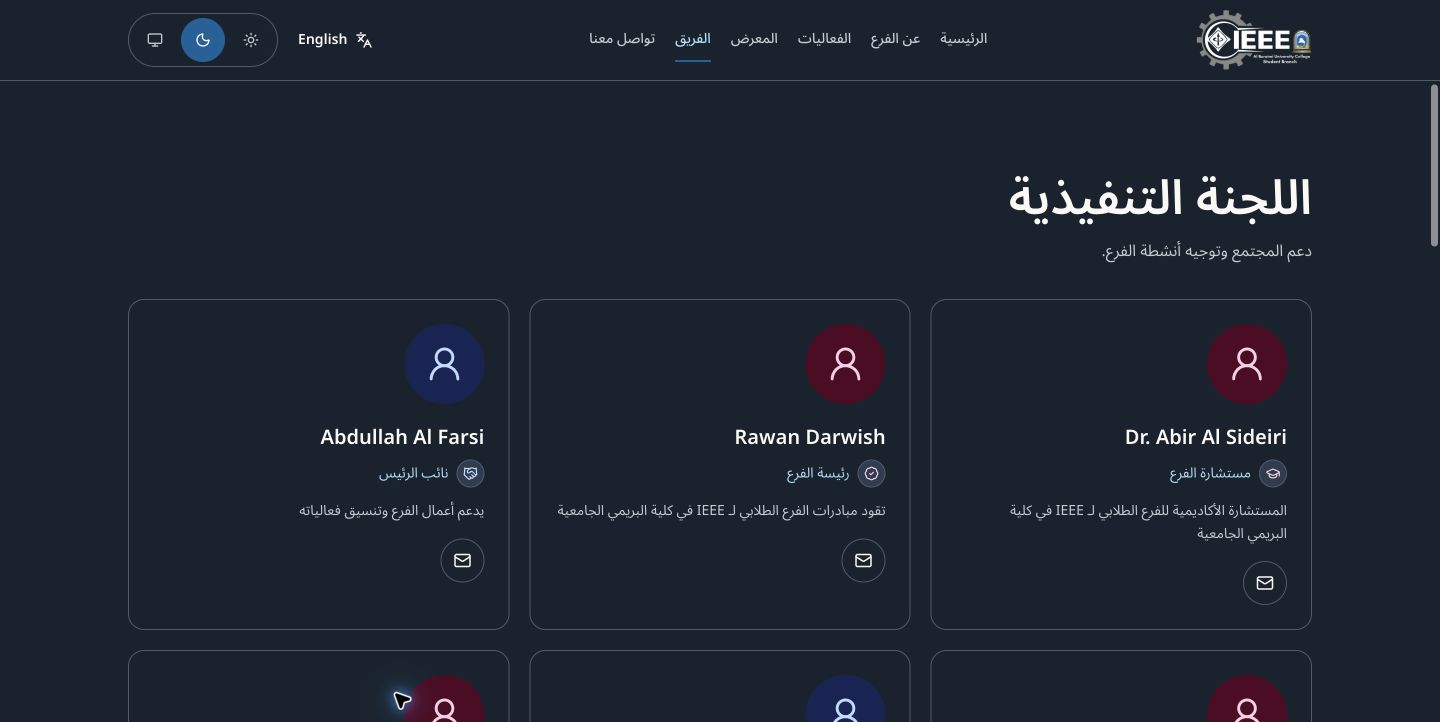
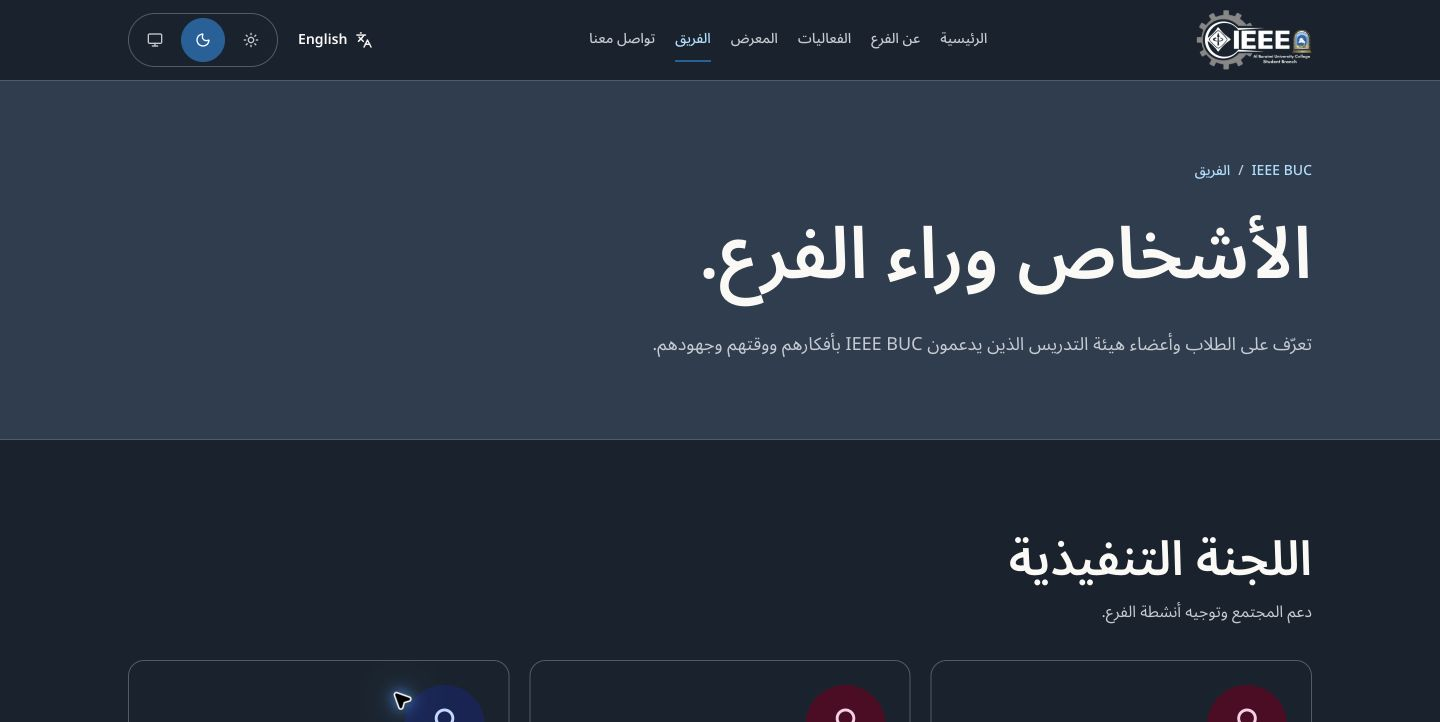
style: refine team card hierarchy

diff --git a/src/components/cards/MemberCard.tsx b/src/components/cards/MemberCard.tsx
@@ -40,12 +40,6 @@ export default function MemberCard({
       : member.gender === "male"
         ? "bg-blue-50 text-blue-700 dark:bg-blue-950 dark:text-blue-200"
         : "bg-surface-soft text-link";
-  const badgeColor =
-    member.gender === "female"
-      ? "text-pink-700 dark:text-pink-200"
-      : member.gender === "male"
-        ? "text-blue-700 dark:text-blue-200"
-        : "text-link";
   return (
     <article
       className={`flex min-w-0 gap-5 rounded-2xl border border-line bg-surface ${isExecutive ? "flex-col p-6" : "items-center p-4"}`}
@@ -69,14 +63,14 @@ export default function MemberCard({
           />
         )}
       </div>
-      <div className="min-w-0 flex-1">
+      <div className="flex min-w-0 flex-1 flex-col">
         <h3
           className={`${isExecutive ? "text-xl" : "text-base"} font-semibold leading-snug`}
         >
           <bdi>{member.name}</bdi>
         </h3>
         <div className="mt-2 flex min-w-0 items-center gap-2 text-sm text-link">
-          {isExecutive && <RoleBadge role={role} className={badgeColor} />}
+          {isExecutive && <RoleBadge role={role} />}
           <p>{locale === "ar" ? roles[role] || role : role}</p>
         </div>
         {isExecutive && "bio" in member && member.bio && (
@@ -84,7 +78,7 @@ export default function MemberCard({
             {locale === "ar" ? arabicBios[role] || member.bio : member.bio}
           </p>
         )}
-        <div className="mt-4 flex gap-2">
+        <div className="mt-auto flex gap-2 pt-4">
           {member.email && (
             <a
               href={`mailto:${member.email}`}

diff --git a/src/components/team/RoleBadge.tsx b/src/components/team/RoleBadge.tsx
@@ -18,18 +18,12 @@ const roleIcons: Record<string, LucideIcon> = {
 };
 
 /** A decorative circular cue paired with the visible role label. */
-export default function RoleBadge({
-  role,
-  className = "text-link",
-}: {
-  role: string;
-  className?: string;
-}) {
+export default function RoleBadge({ role }: { role: string }) {
   const Icon = roleIcons[role] ?? BadgeCheck;
 
   return (
     <span
-      className={`flex size-7 shrink-0 items-center justify-center rounded-full border border-line bg-surface-soft ${className}`}
+      className="flex size-7 shrink-0 items-center justify-center rounded-full border border-blue-200 bg-blue-50 text-blue-700 dark:border-blue-800 dark:bg-blue-950 dark:text-blue-200"
       aria-hidden="true"
     >
       <Icon size={15} strokeWidth={1.9} />

diff --git a/WEBSITE-REVIEW.md b/WEBSITE-REVIEW.md
@@ -4,9 +4,9 @@ The redesigned website is complete as a local, reviewable implementation. Previe
 
 ## Final icon decision
 
-Executive avatars use the same clean Lucide UserRound silhouette as regular members. Beside each role name is a small circular badge using the supplied reference icon set: Counselor graduation cap, Chair verified-leadership mark, Vice Chair handshake, Secretary writing clipboard, Webmaster code, and Treasurer wallet. The badge inherits the existing pink/female or blue/male color in both themes.
+Executive avatars use the same clean Lucide UserRound silhouette as regular members. Beside each role name is a small circular IEEE-blue badge using the supplied reference icon set: Counselor graduation cap, Chair verified-leadership mark, Vice Chair handshake, Secretary writing clipboard, Webmaster code, and Treasurer wallet. Pink/female and blue/male remain exclusive to the avatars, while role badges use one consistent institutional color in both themes.
 
-The badges support the written labels without changing the person artwork, and remain decorative to assistive technology because every card names its role in text. Edit `src/components/team/RoleBadge.tsx` to customize them. Latest screenshots: `review/final-circular-role-badges-light.png`, `review/final-circular-role-badges-dark.png`, and `review/final-circular-role-badges-ar-dark.png`. Lint, TypeScript and production build passed after this change; light, dark, English, Arabic RTL and 390px reflow were reviewed.
+The badges support the written labels without changing the person artwork, and remain decorative to assistive technology because every card names its role in text. Email actions are anchored to the bottom of each executive card for consistent alignment. Edit `src/components/team/RoleBadge.tsx` to customize the icons. Latest screenshots: `review/final-circular-role-badges-light.png`, `review/final-circular-role-badges-dark.png`, and `review/final-circular-role-badges-ar-dark.png`. Lint, TypeScript and production build passed after this change; light, dark, English, Arabic RTL and 390px reflow were reviewed.
 
 ## Completed
 
